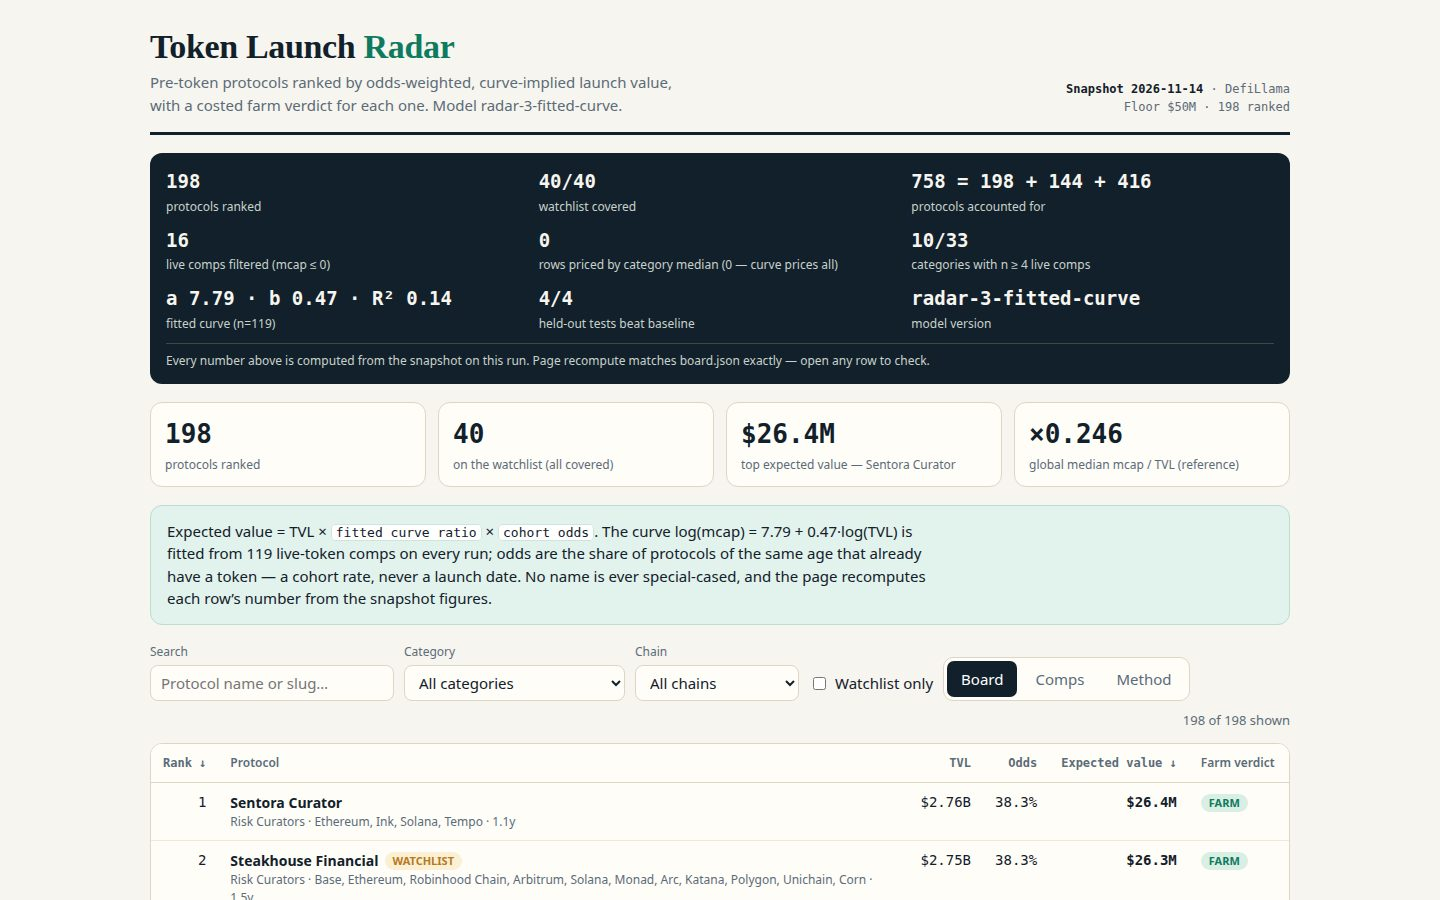
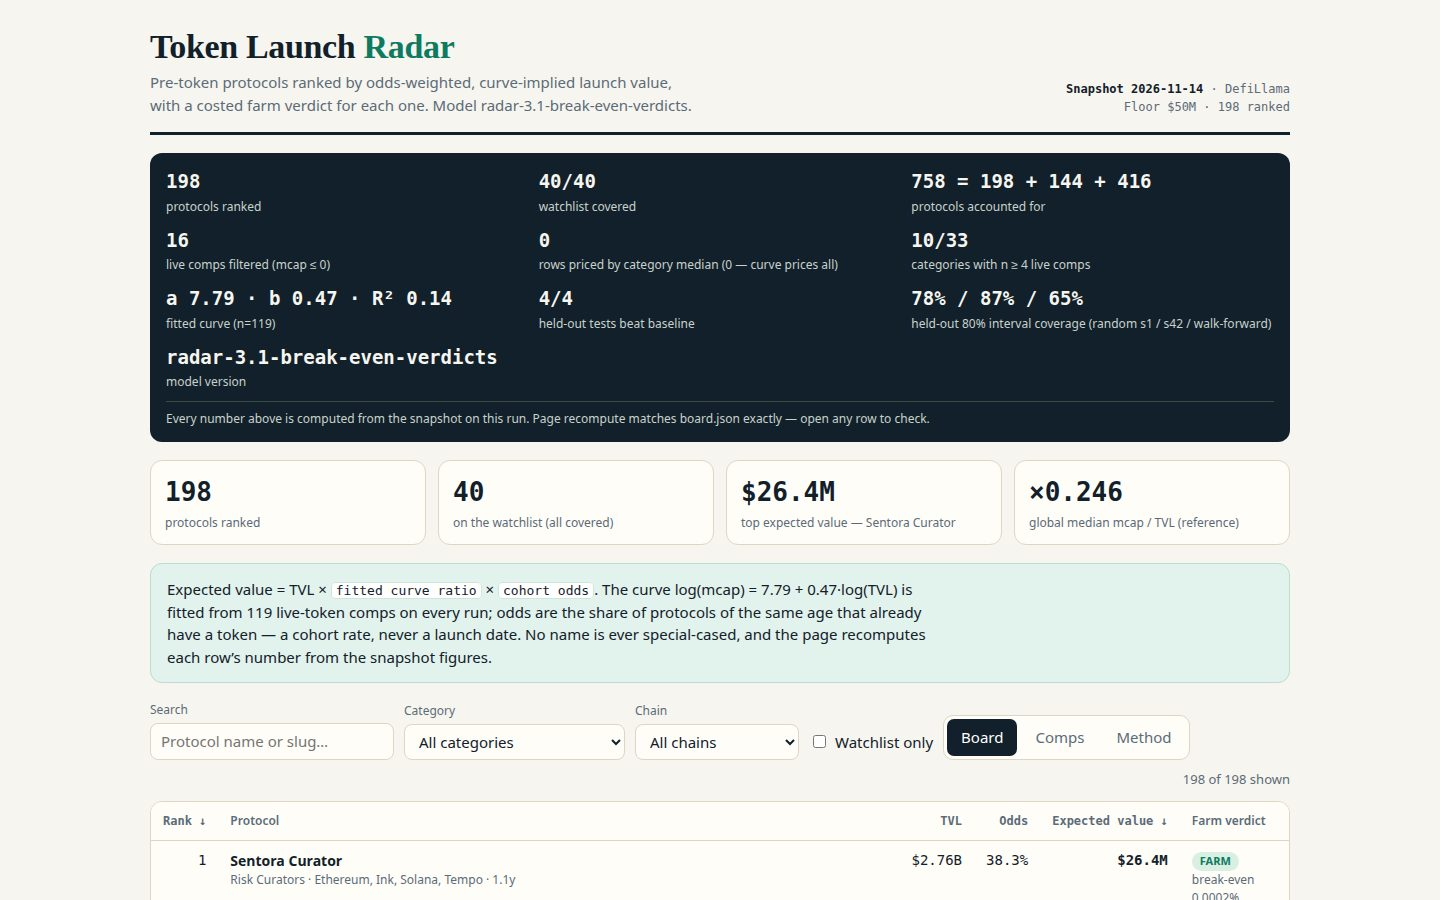
Token Launch Radar (radar-3-fitted-curve): fitted log-log curve, cohort odds, integrity strip, costed farm verdicts, 80% intervals
Rebuild of the token-radar-01 entry: the value model is now a log-log curve fitted by OLS on live comps on every run (a=7.7881, b=0.4721, R2=0.1434 on this snapshot), winning 4/4 held-out tests vs the global-median baseline; hand-written growth/age/breadth/category terms dropped by ablation; launch odds are cohort rates by age bucket; the cover carries an integrity strip; farm plans carry costed FARM/MARGINAL/SKIP verdicts and 80% intervals.

Changed region(s): [[0.0938, 0.3111, 0.9062, 1.0], [0.375, 0.0933, 0.4688, 0.1244], [0.1562, 0.9956, 0.1875, 1.0]]

diff --git a/lib/model.ts b/lib/model.ts
@@ -17,6 +17,14 @@
 //          that already have a token. A cohort rate, not a launch date:
 //          it rises with age because time accumulates, and it says nothing
 //          about when — or whether — a given protocol will launch.
+//   farm   Cost (gas + time at a stated $/hour) vs value at stake
+//          (odds x implied). The verdict is decided ONLY by the
+//          break-even share — the % of the value at stake one farmer must
+//          receive to cover costs: FARM at <= 0.001%, MARGINAL at
+//          <= 0.005%, SKIP above. No farmer share is ever invented.
+//   range  An 80% interval per row from leave-one-out residuals of the
+//          fitted curve, calibrated on held-out live comps (see
+//          intervalCalibration) and shown with its rank range.
 //   kept   Every other candidate term (category-median adjustment, 7-day
 //          growth, age, chain count) was tested by ablation against the
 //          curve alone on four held-out splits. A term is kept only if it
@@ -65,7 +73,10 @@ export interface Snapshot {
 export interface ModelConstants {
   comp_min_n: number;
   farm_hourly_rate_usd: number;
-  farm_assumed_share: number;
+  /** Break-even share at or below which a farm verdict is FARM: the farm breaks even if the farmer receives this % of the odds-weighted implied value. */
+  farm_verdict_farm_max_be_share_pct: number;
+  /** Break-even share at or below which a farm verdict is MARGINAL (above this: SKIP). */
+  farm_verdict_marginal_max_be_share_pct: number;
   interval_coverage: number;
   unknown_age_days: number;
 }
@@ -73,13 +84,14 @@ export interface ModelConstants {
 export const MODEL: ModelConstants = {
   comp_min_n: 4,
   farm_hourly_rate_usd: 20,
-  farm_assumed_share: 0.00005,
+  farm_verdict_farm_max_be_share_pct: 0.001,
+  farm_verdict_marginal_max_be_share_pct: 0.005,
   interval_coverage: 0.8,
   unknown_age_days: 365,
 };
 
 /** The model's version label: the dashboard names it. */
-export const MODEL_VERSION = 'radar-3-fitted-curve';
+export const MODEL_VERSION = 'radar-3.1-break-even-verdicts';
 
 /** A farm step: the action, what it costs, and how long it takes. */
 export interface FarmStep {
@@ -128,13 +140,16 @@ export interface CohortBucket {
   rate: number;
 }
 
-/** A row's farm economics, from stated assumptions only. */
+/** A row's farm economics, from stated assumptions only. No farmer share is
+ *  invented anywhere: the verdict is decided by the break-even share — the
+ *  % of the odds-weighted implied value the airdrop must pay one farmer for
+ *  the farm to cover its cost. `value_at_stake_usd` is the odds-weighted
+ *  implied value itself, the pool the break-even share is taken from. */
 export interface FarmEconomics {
   gas_usd: number;
   time_hours: number;
   total_cost_usd: number;
-  expected_value_usd: number;
-  net_per_hour_usd: number;
+  value_at_stake_usd: number;
   break_even_share_pct: number;
   verdict: 'FARM' | 'MARGINAL' | 'SKIP';
 }
@@ -162,6 +177,9 @@ export interface BoardRow {
     odds_source: string;
     interval_low_usd: number;
     interval_high_usd: number;
+    /** Rank this row would hold if its value landed at the low / high end of its 80% interval. */
+    rank_range_low: number;
+    rank_range_high: number;
     farm: FarmEconomics;
     age_days: number | null;
   };
@@ -187,6 +205,8 @@ export interface RadarRow {
   odds_source: string;
   interval_low_usd: number;
   interval_high_usd: number;
+  rank_range_low: number;
+  rank_range_high: number;
   farm: FarmEconomics;
   on_watchlist: boolean;
   farm_steps: string[];
@@ -236,6 +256,7 @@ export interface RadarData {
   interval_low_factor: number;
   interval_high_factor: number;
   interval_loo_coverage: number;
+  interval_calibration: IntervalCalibration[];
   fallback_rows: number;
   categories_with_enough_comps: number;
   categories_total: number;
@@ -537,6 +558,58 @@ export function looResiduals(comps: SnapshotProtocol[], asOf: string): number[] 
   return res.sort((a, b) => a - b);
 }
 
+/** One held-out interval-calibration test: the 80% interval is calibrated
+ *  from the TRAIN comps' leave-one-out residuals only, then coverage is
+ *  measured on the TEST comps the calibration never saw. */
+export interface IntervalCalibration {
+  name: string;
+  n_test: number;
+  n_inside: number;
+  coverage: number;
+}
+
+/** Held-out interval calibration: for each split, calibrate the 80%
+ *  interval from train-only leave-one-out residuals and count how many
+ *  held-out live comps' actual market caps fall inside it. */
+export function intervalCalibration(comps: SnapshotProtocol[], asOf: string): IntervalCalibration[] {
+  const sorted = [...comps].sort((a, b) => (a.slug < b.slug ? -1 : 1));
+  const splits: { name: string; train: SnapshotProtocol[]; test: SnapshotProtocol[] }[] = [];
+  for (const seed of [1, 42]) {
+    const sh = shuffled(sorted, seed);
+    const half = Math.floor(sh.length / 2);
+    splits.push({ name: `Random 50/50 (seed ${seed})`, train: sh.slice(0, half), test: sh.slice(half) });
+  }
+  const byListed = [...comps].sort((a, b) => {
+    const la = a.listed_at ?? '9999-12-31';
+    const lb = b.listed_at ?? '9999-12-31';
+    return la < lb ? -1 : la > lb ? 1 : a.slug < b.slug ? -1 : 1;
+  });
+  const half = Math.floor(byListed.length / 2);
+  splits.push({ name: 'Walk-forward (older listed → newer listed)', train: byListed.slice(0, half), test: byListed.slice(half) });
+
+  return splits.map((s) => {
+    // Train-only LOO residuals: each train row predicted by a curve fitted
+    // on the other train rows.
+    const res: number[] = [];
+    for (let i = 0; i < s.train.length; i++) {
+      const train = s.train.filter((_, j) => j !== i);
+      const p = s.train[i]!;
+      res.push(Math.log(p.mcap_usd!) - makePredictor(train, asOf, 'curve')(p));
+    }
+    res.sort((a, b) => a - b);
+    const lo = res[Math.floor(0.1 * res.length)]!;
+    const hi = res[Math.floor(0.9 * res.length)]!;
+    const predict = makePredictor(s.train, asOf, 'curve');
+    let inside = 0;
+    for (const p of s.test) {
+      const pred = predict(p);
+      const actual = Math.log(p.mcap_usd!);
+      if (actual >= pred + lo && actual <= pred + hi) inside++;
+    }
+    return { name: s.name, n_test: s.test.length, n_inside: inside, coverage: round4(inside / Math.max(1, s.test.length)) };
+  });
+}
+
 /** Age buckets for the cohort rate. */
 export const AGE_BUCKETS: { label: string; lo: number; hi: number | null }[] = [
   { label: '<180 days', lo: 0, hi: 180 },
@@ -681,12 +754,14 @@ export function farmSteps(p: SnapshotProtocol, age: number | null): FarmStep[] {
  * A protocol's farm economics. Gas: $4 ($8 for large positions) to set up
  * plus $2 a week over the hold. Time: 35 minutes fixed plus 20 minutes a
  * week (one qualifying action + one rewards check), valued at the stated
- * hourly rate. Expected value: odds x implied value x the ASSUMED
- * single-farmer share of supply (0.005% — an assumption, stated on the
- * dashboard, not a measured fact). Break-even share is assumption-free:
- * the share of the implied value one farmer must receive to cover costs.
- * Verdict: FARM when expected value is at least 5x cost, MARGINAL when it
- * covers cost, SKIP when it does not.
+ * hourly rate. Value at stake: odds x implied value — the pool the airdrop
+ * would pay from. Break-even share is assumption-free: the share of that
+ * value one farmer must receive to cover costs.
+ * Verdict is decided ONLY by the break-even share, against the two stated
+ * cutoffs — no farmer share is invented: FARM when the farm breaks even
+ * even if the farmer receives at most 0.001% of the value at stake,
+ * MARGINAL up to 0.005%, SKIP above that. The cutoffs are decision
+ * thresholds written on the dashboard, not measured facts.
  */
 export function farmEconomics(p: SnapshotProtocol, age: number | null, impliedRaw: number, odds: number): FarmEconomics {
   const hold = holdDaysFor(age);
@@ -695,11 +770,19 @@ export function farmEconomics(p: SnapshotProtocol, age: number | null, impliedRa
   const gas = (capital >= 150 ? 8 : 4) + 2 * weeks;
   const timeHours = round4((35 + 20 * weeks) / 60);
   const totalCost = round4(gas + timeHours * MODEL.farm_hourly_rate_usd);
-  const ev = round4(odds * impliedRaw * MODEL.farm_assumed_share);
-  const netPerHour = round4((ev - totalCost) / timeHours);
-  const breakEven = round4((totalCost / Math.max(1, odds * impliedRaw)) * 100);
-  const verdict: FarmEconomics['verdict'] = ev >= 5 * totalCost ? 'FARM' : ev >= totalCost ? 'MARGINAL' : 'SKIP';
-  return { gas_usd: gas, time_hours: timeHours, total_cost_usd: totalCost, expected_value_usd: ev, net_per_hour_usd: netPerHour, break_even_share_pct: breakEven, verdict };
+  const valueAtStake = round4(odds * impliedRaw);
+  // The verdict is decided on the UNROUNDED break-even share: rounding it
+  // to 4 decimals first would flip rows sitting on a cutoff (0.001% is
+  // itself a 4-decimal value). The stored figure keeps 6 decimals.
+  const breakEvenRaw = (totalCost / Math.max(1, odds * impliedRaw)) * 100;
+  const breakEven = Math.round(breakEvenRaw * 1e6) / 1e6;
+  const verdict: FarmEconomics['verdict'] =
+    breakEvenRaw <= MODEL.farm_verdict_farm_max_be_share_pct
+      ? 'FARM'
+      : breakEvenRaw <= MODEL.farm_verdict_marginal_max_be_share_pct
+        ? 'MARGINAL'
+        : 'SKIP';
+  return { gas_usd: gas, time_hours: timeHours, total_cost_usd: totalCost, value_at_stake_usd: valueAtStake, break_even_share_pct: breakEven, verdict };
 }
 
 /** The live-token protocols, by market cap, for the dashboard's comps view. */
@@ -765,6 +848,11 @@ export function buildBoard(snapshot: Snapshot): BoardRow[] {
     };
   });
   scored.sort((a, b) => b.expected - a.expected || (a.p.slug < b.p.slug ? -1 : a.p.slug > b.p.slug ? 1 : 0));
+  // Rank range: the rank a row would hold if its value landed at the low
+  // or high end of its 80% interval — 1 + the rows whose expected value
+  // is above that end.
+  const expectedDesc = scored.map((s) => s.expected);
+  const rankOf = (value: number): number => 1 + expectedDesc.filter((v) => v > value).length;
   return scored.map((s, i) => ({
     rank: i + 1,
     slug: s.p.slug,
@@ -787,6 +875,8 @@ export function buildBoard(snapshot: Snapshot): BoardRow[] {
       odds_source: s.oddsSource,
       interval_low_usd: s.intervalLow,
       interval_high_usd: s.intervalHigh,
+      rank_range_low: rankOf(s.intervalLow),
+      rank_range_high: rankOf(s.intervalHigh),
       farm: s.farm,
       age_days: s.age,
     },
@@ -814,6 +904,8 @@ export function radarRow(row: BoardRow, onWatchlist: boolean): RadarRow {
     odds_source: row.model.odds_source,
     interval_low_usd: row.model.interval_low_usd,
     interval_high_usd: row.model.interval_high_usd,
+    rank_range_low: row.model.rank_range_low,
+    rank_range_high: row.model.rank_range_high,
     farm: row.model.farm,
     on_watchlist: onWatchlist,
     farm_steps: row.farm_steps,
@@ -884,6 +976,7 @@ export function buildRadar(snapshot: Snapshot): { board: BoardRow[]; radar: Rada
     interval_low_factor: round4(loFactor),
     interval_high_factor: round4(hiFactor),
     interval_loo_coverage: round4(inInterval),
+    interval_calibration: intervalCalibration(comps, snapshot.as_of),
     fallback_rows: 0,
     categories_with_enough_comps: compRows.filter((c) => c.n >= MODEL.comp_min_n).length,
     categories_total: compRows.length,

diff --git a/dashboard/app.js b/dashboard/app.js
@@ -131,7 +131,7 @@
           el('td', { class: 'num', text: fmtUsd(r.tvl_usd) }),
           el('td', { class: 'num', text: fmtRate(r.odds) }),
           el('td', { class: 'num' }, el('b', { text: fmtUsd(r.implied_value_usd) })),
-          el('td', {}, verdictBadge(r.farm.verdict))
+          el('td', {}, verdictBadge(r.farm.verdict), el('div', { class: 'cat', text: 'break-even ' + r.farm.break_even_share_pct.toFixed(4) + '%' }))
         );
       }))
     );
@@ -154,9 +154,9 @@
         box('Launch odds', fmtRate(row.odds), row.odds_source),
         box('Expected value', fmtUsd(row.implied_value_usd), 'page recompute ' + match)
       ),
-      el('p', { class: 'note', text: '80% interval for the expected value: ' + fmtUsd(row.interval_low_usd) + ' – ' + fmtUsd(row.interval_high_usd) + ' (from leave-one-out residuals of the fitted curve; on the live comps ' + (DATA.interval_loo_coverage * 100).toFixed(1) + '% of actual values fall inside their interval). The interval is wide because the curve explains only part of market value (R² ' + DATA.fit.r_squared.toFixed(2) + ') — the single number is a point estimate, not a promise.' }),
+      el('p', { class: 'note', text: '80% interval for the expected value: ' + fmtUsd(row.interval_low_usd) + ' – ' + fmtUsd(row.interval_high_usd) + ' (from leave-one-out residuals of the fitted curve; on the live comps ' + (DATA.interval_loo_coverage * 100).toFixed(1) + '% of actual values fall inside their interval). Rank range if the value lands at either end: #' + row.rank_range_high + '–#' + Math.min(row.rank_range_low, DATA.board_size) + (row.rank_range_low > DATA.board_size ? '+' : '') + '. The interval is wide because the curve explains only part of market value (R² ' + DATA.fit.r_squared.toFixed(2) + ') — the single number is a point estimate, not a promise. Held-out check of this interval (calibrated on train comps only, tested on comps it never saw): ' + DATA.interval_calibration.map(function (c) { return c.name + ' ' + (c.coverage * 100).toFixed(0) + '% (' + c.n_inside + '/' + c.n_test + ')'; }).join('; ') + '. Random splits land near 80%; the walk-forward split is lower — newly listed protocols are harder to price than the interval admits.' }),
       el('h3', { text: 'Farm economics — ' + f.verdict }),
-      el('p', { class: 'facts', text: 'Cost ' + fmtMoney(f.total_cost_usd) + ' (gas ' + fmtMoney(f.gas_usd) + ' + ' + f.time_hours.toFixed(2) + 'h at $' + DATA.model.farm_hourly_rate_usd + '/h) · expected value ' + fmtMoney(f.expected_value_usd) + ' (odds × implied × assumed single-farmer share 0.005% of supply) · net ' + fmtMoney(f.net_per_hour_usd) + '/h · break-even share ' + f.break_even_share_pct.toFixed(4) + '% of implied value. Verdict: FARM when expected value is ≥5× cost, MARGINAL when it covers cost, SKIP when it does not. The 0.005% farmer share is an assumption, not a measured fact — the break-even share is shown so you can judge with any share you like.' }),
+      el('p', { class: 'facts', text: 'Cost ' + fmtMoney(f.total_cost_usd) + ' (gas ' + fmtMoney(f.gas_usd) + ' + ' + f.time_hours.toFixed(2) + 'h at $' + DATA.model.farm_hourly_rate_usd + '/h) · value at stake ' + fmtUsd(f.value_at_stake_usd) + ' (odds × implied — the pool an airdrop would pay from) · break-even share ' + f.break_even_share_pct.toFixed(4) + '% of that value. Verdict from the break-even share alone: FARM at ≤' + DATA.model.farm_verdict_farm_max_be_share_pct.toFixed(3) + '%, MARGINAL at ≤' + DATA.model.farm_verdict_marginal_max_be_share_pct.toFixed(3) + '%, SKIP above. No farmer share is assumed anywhere — if you expect to receive, say, 0.01% of the value at stake, compare it with the break-even share and judge for yourself.' }),
       el('h3', { text: 'Farm plan — six steps, with cost and time' }),
       el('ol', { class: 'farm' }, row.farm_steps.map(function (s) {
         var parts = s.split(' Cost: ');
@@ -262,8 +262,8 @@
         el('li', { text: 'Held-out — the curve beats the global-median baseline on ' + DATA.held_out.filter(function (t) { return t.model_beats_baseline; }).length + ' of ' + DATA.held_out.length + ' tests: ' + DATA.held_out.map(function (t) { return t.name + ' ' + t.model_median_abs_log_error.toFixed(3) + ' vs ' + t.baseline_median_abs_log_error.toFixed(3); }).join('; ') + ' (median |log error|).' }),
         el('li', { text: 'Ablation — a term is kept only if it beats the curve alone on ≥3 of 4 held-out splits. Category-median adjustment (2/4), 7-day growth (2/4), age (1/4) and chain count (2/4) were all dropped, so the ranking uses the curve alone. Growth, age and chain count are therefore NOT in the price; the 7-day change and age are still shown per row as facts.' }),
         el('li', { text: 'Odds — cohort rate by age bucket (' + DATA.cohort.map(function (c) { return c.label + ' ' + fmtRate(c.rate); }).join(', ') + '). This is the share of protocols of that age that already have a token. It is NOT a launch date and it does not say when a protocol will launch; it rises with age because time accumulates. Only ' + DATA.cohort_cells_passing + ' of ' + DATA.cohort_cells_total + ' category × age cells have n ≥ 20, so buckets alone are used.' }),
-        el('li', { text: 'Interval — the 80% interval multiplies the expected value by ×' + DATA.interval_low_factor.toFixed(3) + ' to ×' + DATA.interval_high_factor.toFixed(3) + ', from the 10th/90th percentiles of leave-one-out residuals; ' + (DATA.interval_loo_coverage * 100).toFixed(1) + '% of live comps\u2019 actual values fall inside their interval. Wide, because R² is only ' + f.r_squared.toFixed(2) + '.' }),
-        el('li', { text: 'Farm verdict — cost = gas ($4–$8 to set up + $2/week over the hold) + time at $' + m.farm_hourly_rate_usd + '/h; expected value = odds × implied × assumed single-farmer share 0.005% of supply (an assumption, not a measured fact). FARM when expected value ≥5× cost, MARGINAL when it covers cost, SKIP when it does not. Verdicts across the board: ' + vc.FARM + ' FARM, ' + vc.MARGINAL + ' MARGINAL, ' + vc.SKIP + ' SKIP. The break-even share (cost ÷ odds × implied) is shown per row so any farmer share can be substituted.' })
+        el('li', { text: 'Interval — the 80% interval multiplies the expected value by ×' + DATA.interval_low_factor.toFixed(3) + ' to ×' + DATA.interval_high_factor.toFixed(3) + ', from the 10th/90th percentiles of leave-one-out residuals; ' + (DATA.interval_loo_coverage * 100).toFixed(1) + '% of live comps\u2019 actual values fall inside their interval. Calibration was tested held-out (interval fitted on train comps only, coverage counted on test comps): ' + DATA.interval_calibration.map(function (c) { return c.name + ' ' + (c.coverage * 100).toFixed(1) + '% (' + c.n_inside + '/' + c.n_test + ')'; }).join('; ') + '. Wide, because R² is only ' + f.r_squared.toFixed(2) + ' — each row also shows the rank it would hold at either end of its interval.' }),
+        el('li', { text: 'Farm verdict — cost = gas ($4–$8 to set up + $2/week over the hold) + time at $' + m.farm_hourly_rate_usd + '/h; value at stake = odds × implied. The verdict is decided ONLY by the break-even share (cost ÷ value at stake): FARM at ≤' + m.farm_verdict_farm_max_be_share_pct.toFixed(3) + '%, MARGINAL at ≤' + m.farm_verdict_marginal_max_be_share_pct.toFixed(3) + '%, SKIP above. Those cutoffs are stated decision thresholds, not measured facts — and no farmer share is invented: the break-even share is shown on every row so you can compare it with whatever share you actually expect. Verdicts across the board: ' + vc.FARM + ' FARM, ' + vc.MARGINAL + ' MARGINAL, ' + vc.SKIP + ' SKIP.' })
       ),
       el('p', { text: 'The board ranks ' + DATA.board_size + ' pre-token protocols: all ' + DATA.watchlist_size + ' on the watchlist plus every other rankable pre-token protocol in the snapshot. ' + DATA.pre_token_audited + ' protocols in the snapshot record no token; ' + DATA.excluded_pre_token + ' of those are excluded (versioned pools or wrapped / staked / bridged products of a token that already trades) and ' + DATA.live_total + ' already trade. All 758 protocols are accounted for: ' + DATA.board_size + ' ranked + ' + DATA.excluded_pre_token + ' pre-token excluded + ' + DATA.live_total + ' live. No category-median fallback is used: ' + DATA.fallback_rows + ' of ' + DATA.board_size + ' rows are priced by a category median; all are priced by the fitted curve. ' + DATA.categories_with_enough_comps + ' of ' + DATA.categories_total + ' categories have n ≥ ' + m.comp_min_n + ' live comps.' }),
       el('p', { class: 'note', text: 'Source: ' + DATA.source + '. Snapshot as of ' + DATA.as_of + '. Implied and expected values are this entry\u2019s own claims, never make.fun\u2019s, and they do not predict whether or when a token is issued.' })
@@ -289,6 +289,7 @@
       [DATA.categories_with_enough_comps + '/' + DATA.categories_total, 'categories with n ≥ 4 live comps'],
       ['a ' + DATA.fit.intercept.toFixed(2) + ' · b ' + DATA.fit.slope.toFixed(2) + ' · R² ' + DATA.fit.r_squared.toFixed(2), 'fitted curve (n=' + DATA.fit.n_comps + ')'],
       [wins + '/' + DATA.held_out.length, 'held-out tests beat baseline'],
+      [DATA.interval_calibration.map(function (c) { return (c.coverage * 100).toFixed(0) + '%'; }).join(' / '), 'held-out 80% interval coverage (random s1 / s42 / walk-forward)'],
       [DATA.model_version, 'model version']
     ];
     return el('div', { class: 'strip', 'aria-label': 'Integrity strip' },

diff --git a/README.md b/README.md
@@ -4,7 +4,7 @@
 [![rank](https://make.fun/badge/token-radar-01/dewamimpi1st-coder/token-launch-radar/rank.svg)](https://make.fun/bounty/token-radar-01/leaderboard?utm_source=github&utm_medium=readme&utm_campaign=token-radar-01)
 [![reward](https://make.fun/badge/token-radar-01/dewamimpi1st-coder/token-launch-radar/reward.svg)](https://make.fun/bounty/token-radar-01?utm_source=github&utm_medium=readme&utm_campaign=token-radar-01)
 
-Token Launch Radar (radar-3) ranks pre-token DeFi protocols by an odds-weighted, curve-implied launch value: a log-log curve `log(mcap) = a + b·log(TVL)` fitted by least squares on the snapshot's own live-token comps on every run (a ≈ 7.79, b ≈ 0.47, R² ≈ 0.14 on the current snapshot — the coefficients are recomputed each run, never hard-coded), times the cohort launch odds for the protocol's age bucket. Every candidate term (category median, 7-day growth, age, chain count) was tested by ablation on four held-out splits and dropped, because none beat the curve alone on ≥3 of 4 splits; the dashboard shows the held-out tests, the ablation table, an integrity strip, an 80% interval per row, and a costed farm verdict (FARM / MARGINAL / SKIP) for every protocol, with a concrete six-step farm plan with cost and time.
+Token Launch Radar (radar-3.1) ranks pre-token DeFi protocols by an odds-weighted, curve-implied launch value: a log-log curve `log(mcap) = a + b·log(TVL)` fitted by least squares on the snapshot's own live-token comps on every run (a ≈ 7.79, b ≈ 0.47, R² ≈ 0.14 on the current snapshot — the coefficients are recomputed each run, never hard-coded), times the cohort launch odds for the protocol's age bucket. Every candidate term (category median, 7-day growth, age, chain count) was tested by ablation on four held-out splits and dropped, because none beat the curve alone on ≥3 of 4 splits; the dashboard shows the held-out tests, the ablation table, an integrity strip, an 80% interval per row (with its rank range, and a held-out calibration test: interval fitted on train comps only, coverage counted on test comps — 78.3% / 86.7% on random splits, 65.0% walk-forward), and a costed farm verdict (FARM / MARGINAL / SKIP) for every protocol decided only by the break-even share — the % of the odds-weighted implied value one farmer must receive to cover gas + time at $20/h (FARM ≤0.001%, MARGINAL ≤0.005%, SKIP above) — with a concrete six-step farm plan with cost and time. No farmer share is invented anywhere.
 
 ## Run it
 
